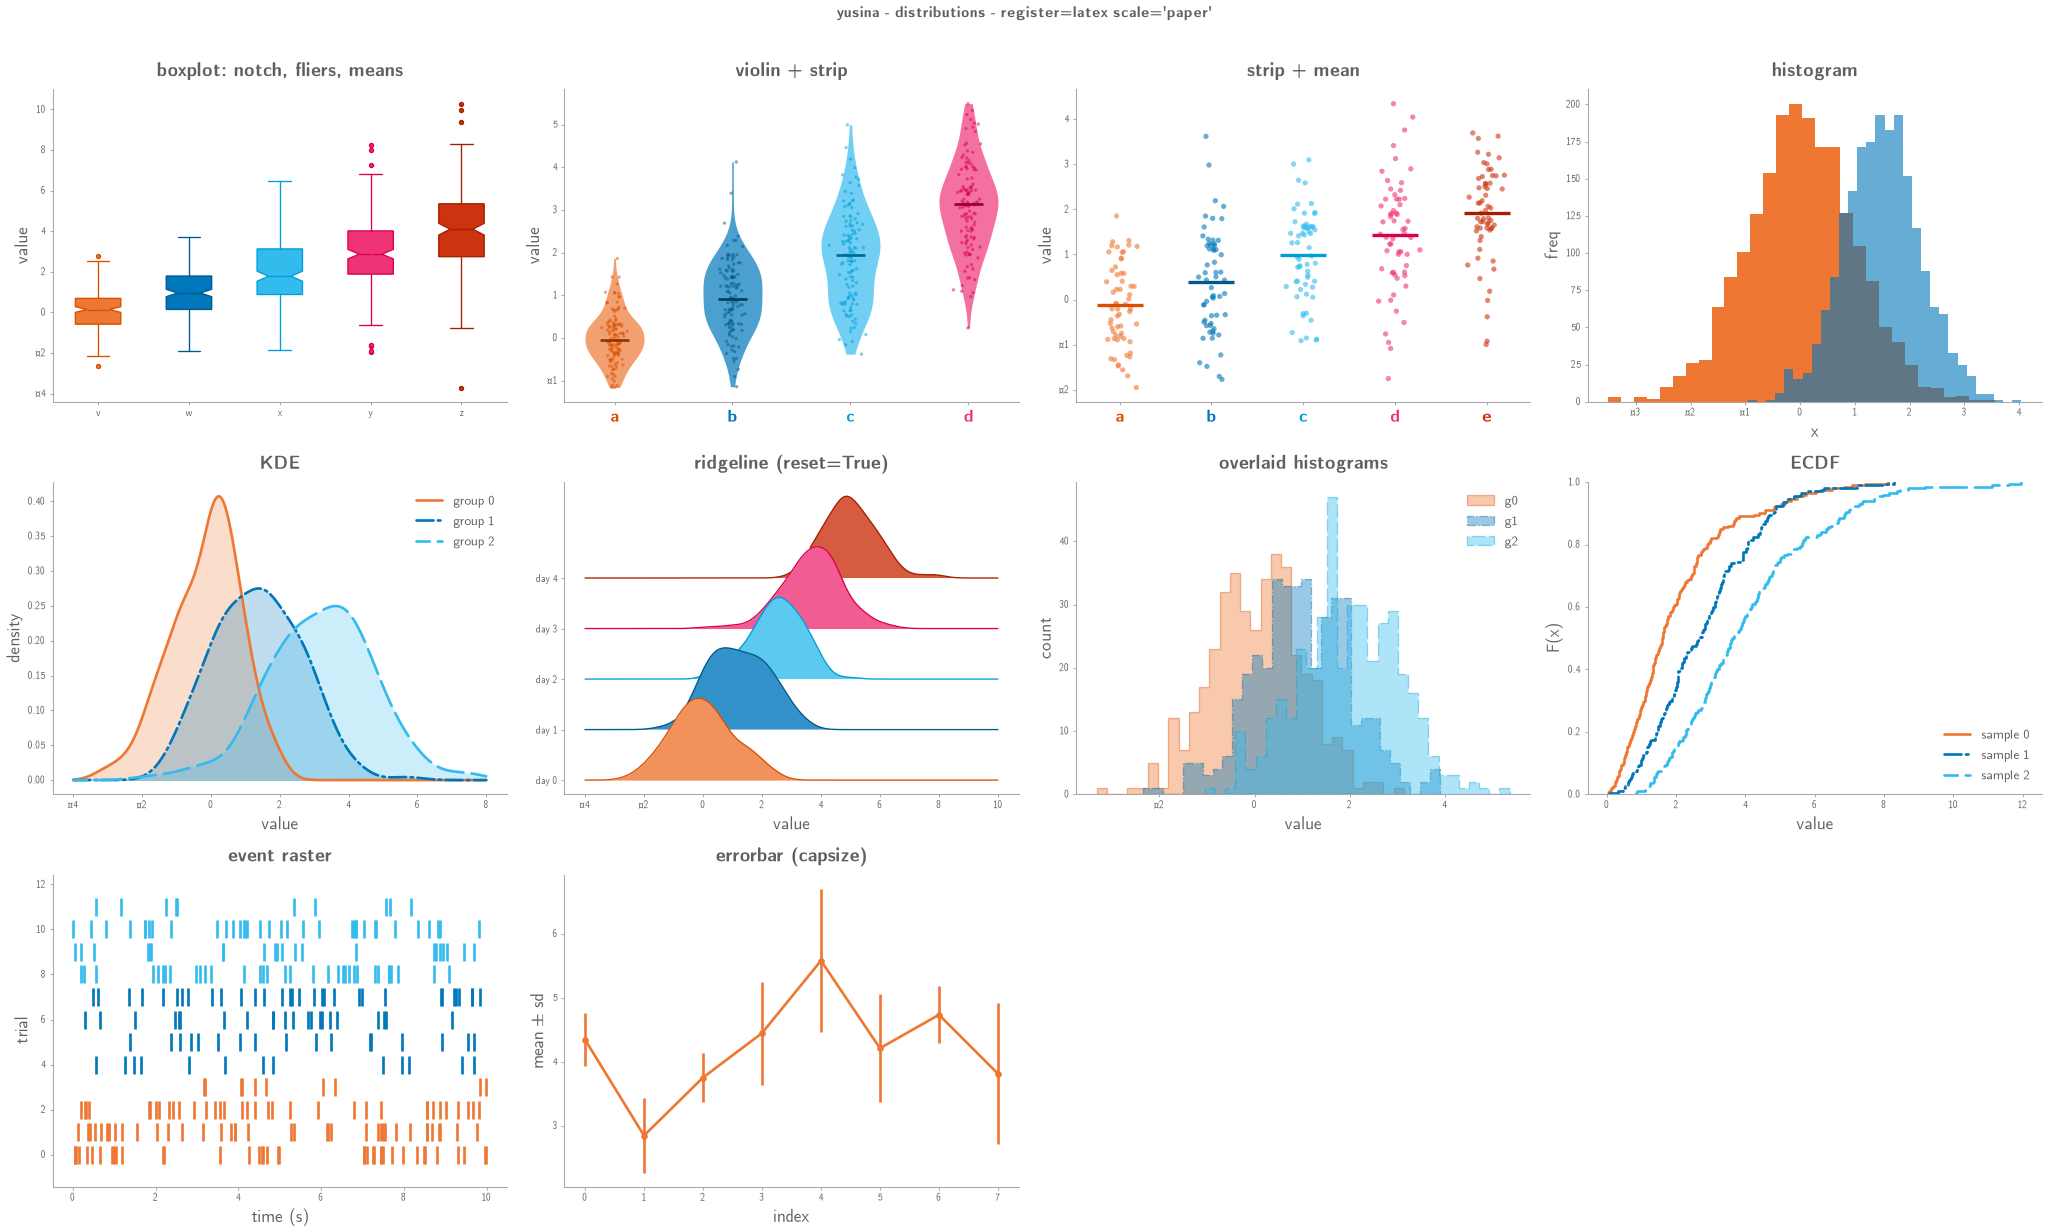
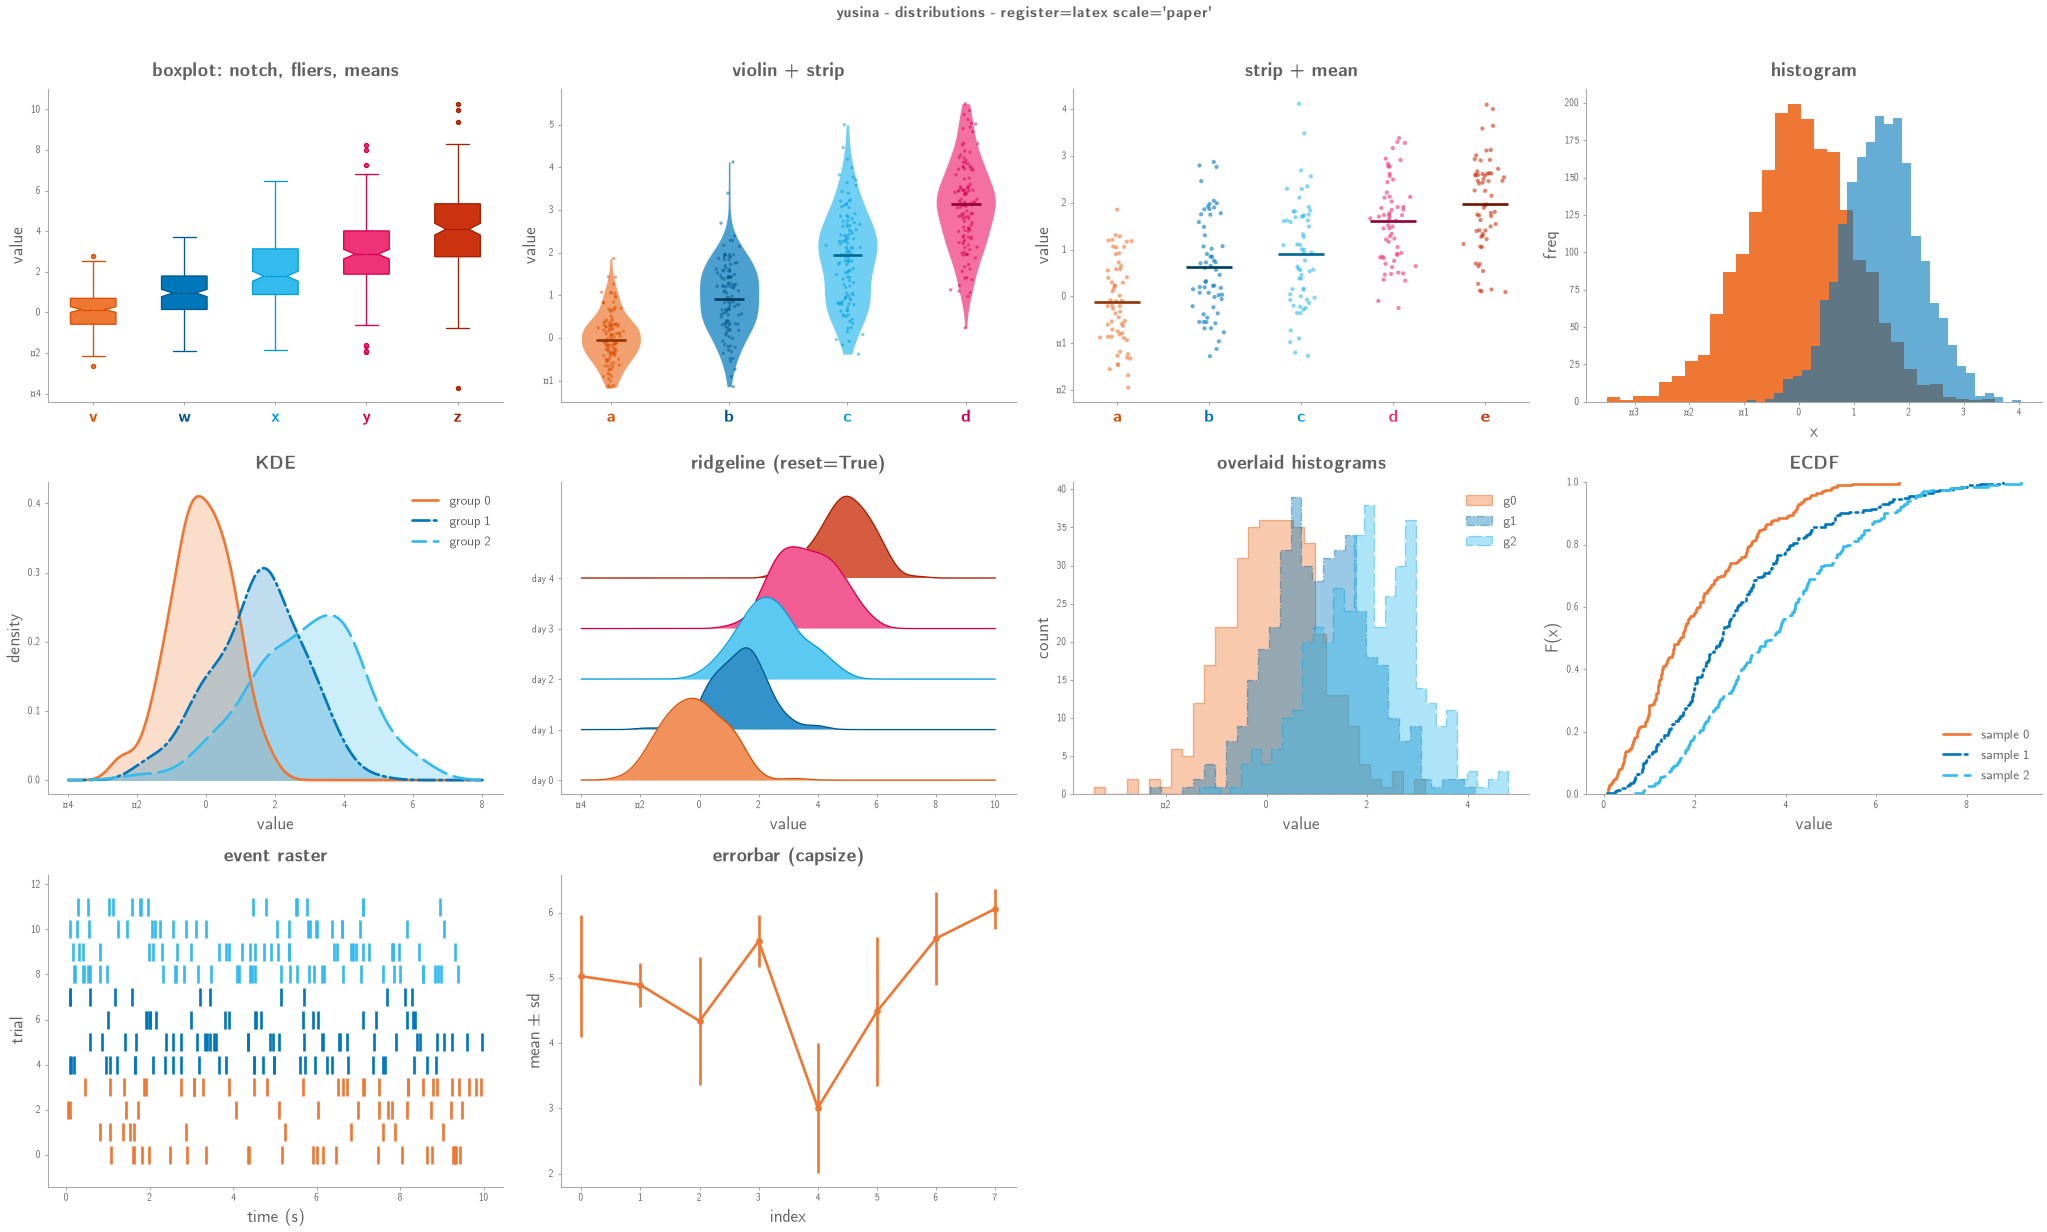
IMP: gallery panels on the helpers and inferred group ticks; re-rendered formal

diff --git a/scripts/gallery.py b/scripts/gallery.py
@@ -76,6 +76,7 @@ def boxes(ax):
     for i, c in enumerate(plt.rcParams["axes.prop_cycle"].by_key()["color"][: len(data)]):
         _set_ax_boxplot_i_colour(bp, i, c, inner_alpha=1.0)
     ax.set(title="boxplot: notch, fliers, means", ylabel="value")
+    figures.group_ticks(ax)  # label colours read off the boxes
 
 
 def errorbars(ax):
@@ -265,17 +266,12 @@ def violins(ax):
     for i, (d, c) in enumerate(zip(data, _cycle())):
         ax.scatter(rng.normal(i + 1, 0.04, len(d)), d, s=4, color=outline(c), alpha=0.5, edgecolors="none")
     ax.set(title="violin + strip", xticks=range(1, 5), xticklabels=list("abcd"), ylabel="value")
-    figures.group_ticks(ax, _cycle()[:4])
+    figures.group_ticks(ax)  # label colours read off the violins
 
 
 def strip(ax):
-    for i, c in enumerate(_cycle()[:5]):
-        d = rng.normal(i * 0.5, 1, 60)
-        ax.scatter(rng.normal(i, 0.08, len(d)), d, s=10, color=c, alpha=0.6, edgecolors="none")
-        ax.hlines(d.mean(), i - 0.25, i + 0.25, color=outline(c), lw=2)  # hlines: a mark, not a series, so no dash cycle
-    ax.xaxis.grid(False)
-    ax.set(title="strip + mean", xticks=range(5), xticklabels=list("abcde"), ylabel="value")
-    figures.group_ticks(ax, _cycle()[:5])  # the x labels are the legend here
+    figures.strip(ax, [rng.normal(i * 0.5, 1, 60) for i in range(5)], labels=list("abcde"))  # dots, strong-outline means, labels as legend
+    ax.set(title="strip + mean", ylabel="value")
 
 
 def kde(ax):
@@ -343,25 +339,20 @@ def barh(ax):
     bars_ = ax.barh(labels, vals, color=_cycle()[0])
     ax.bar_label(bars_, padding=3)  # the bar's colour, bold, GOLDEN of the bar height tall
     ax.set(title="horizontal bars + value labels", xlabel="value", xlim=(0, 58))
-    figures.group_ticks(ax, t.INK, axis="y", size=plt.rcParams["legend.fontsize"], weight="normal")  # the y labels are the legend: legend size, no colour, no bold
+    figures.group_ticks(ax, "y", t.INK, size=plt.rcParams["legend.fontsize"], weight="normal")  # the y labels are the legend: legend size, no colour, no bold
 
 
 def lollipop(ax):
     vals = np.sort(rng.random(10))
-    y = np.arange(10)
-    ax.hlines(y, 0, vals, color=_cycle()[0], lw=2)
-    ax.plot(vals, y, "o", color=_cycle()[0], markersize=plt.rcParams["lines.markersize"] * 1.6, linestyle="none")
-    ax.set(title="lollipop", yticks=y, yticklabels=[f"gene {i}" for i in y], xlabel="score")
+    figures.lollipop(ax, [f"gene {i}" for i in range(10)], vals)
+    ax.set(title="lollipop", xlabel="score")
 
 
 def dumbbell(ax):
-    y = np.arange(7); before = rng.random(7); after = before + rng.normal(0.2, 0.15, 7)
-    c0, c1 = _cycle()[:2]
-    ax.hlines(y, before, after, color=t.RULE, lw=2.5)
-    ms = plt.rcParams["lines.markersize"] * 1.6
-    ax.plot(before, y, "o", color=c0, label="before", markersize=ms, linestyle="none"); ax.plot(after, y, "o", color=c1, label="after", markersize=ms, linestyle="none")
+    before = rng.random(7); after = before + rng.normal(0.2, 0.15, 7)
+    figures.dumbbell(ax, [f"site {i}" for i in range(7)], before, after)
     ax.legend()
-    ax.set(title="dumbbell", yticks=y, yticklabels=[f"site {i}" for i in y], xlabel="value")
+    ax.set(title="dumbbell", xlabel="value")
 
 
 def pie_donut(ax):
